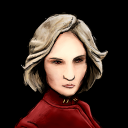
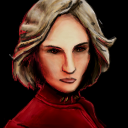
redid portraits, campaign balance

diff --git a/src/data/scripts/world/utils/ilk_BountySpawner.java b/src/data/scripts/world/utils/ilk_BountySpawner.java
@@ -20,6 +20,7 @@ public class ilk_BountySpawner implements EveryFrameScript {
     private long lastSpawn;
 
     boolean init = false;
+    CampaignEventPlugin bounty;
 
     public ilk_BountySpawner(SectorAPI sector, LocationAPI system, MarketAPI market, float dayInterval) {
         this.sector = sector;
@@ -50,16 +51,13 @@ public class ilk_BountySpawner implements EveryFrameScript {
     public void advance(float amount) {
         if (!init) {
             // spawn an initial event
-            CampaignEventPlugin bounty = sector.getEventManager().primeEvent(new CampaignEventTarget(market), Events.SYSTEM_BOUNTY, null);
+            bounty = sector.getEventManager().primeEvent(new CampaignEventTarget(market), Events.SYSTEM_BOUNTY, null);
             bounty.startEvent();
             init = true;
         }
 
         if (sector.getClock().getElapsedDaysSince(lastSpawn) >= interval) {
-            CampaignEventPlugin bounty = sector.getEventManager().primeEvent(new CampaignEventTarget(market), Events.SYSTEM_BOUNTY, null);
-            bounty.startEvent();
-
-            lastSpawn = sector.getClock().getTimestamp();
+            sector.getEventManager().endEvent(bounty);
         }
     }
 }

diff --git a/src/data/scripts/world/systems/ilk_RashtGen.java b/src/data/scripts/world/systems/ilk_RashtGen.java
@@ -145,7 +145,7 @@ public class ilk_RashtGen implements SectorGeneratorPlugin {
                 0.3f
         );
  
-        SystemUtils.addMarketplace(Factions.PIRATES,
+        SystemUtils.addMarketplace(Factions.LUDDIC_PATH,
                 ilk3,
                 null,
                 "Sindral",
@@ -173,9 +173,9 @@ public class ilk_RashtGen implements SectorGeneratorPlugin {
             SystemUtils.addConsul(ilk2.getMarket());
 
             // make some luddites
-            sector.addScript(new ilk_PathSpawnPoint(sector, system, 3, 7, ilk3));
+            //sector.addScript(new ilk_PathSpawnPoint(sector, system, 3, 7, ilk3));
             // start occasional bounties against mayorate enemies so players can more easily level up their mayorate rep
-            sector.addScript(new ilk_BountySpawner(sector, system, ilk1.getMarket(), 180f));
+            sector.addScript(new ilk_BountySpawner(sector, system, ilk1.getMarket(), 45f));
 
             // add forgiveness script to avoid rep decay on mayorate commission from being hostile with pirates
             sector.addScript(new ilk_CommissionEffects());

diff --git a/src/data/scripts/world/mayorateGen.java b/src/data/scripts/world/mayorateGen.java
@@ -7,6 +7,8 @@ import com.fs.starfarer.api.campaign.SectorGeneratorPlugin;
 import com.fs.starfarer.api.impl.campaign.ids.Factions;
 //import data.scripts.world.systems.ilk_KerajjGen;
 import data.scripts.world.systems.ilk_RashtGen;
+
+import java.util.ArrayList;
 import java.util.List;
 
 public class mayorateGen implements SectorGeneratorPlugin {
@@ -21,8 +23,11 @@ public class mayorateGen implements SectorGeneratorPlugin {
     
     public static void initFactionRelationships(SectorAPI sector) {
         FactionAPI mayorate = sector.getFaction("mayorate");
-        
-        for (FactionAPI faction : sector.getAllFactions()) {
+
+        // if in doubt, make factions hostile to mayorate
+        List<FactionAPI> factionList = sector.getAllFactions();
+        factionList.remove(mayorate);
+        for (FactionAPI faction : factionList) {
             mayorate.setRelationship(faction.getId(), RepLevel.HOSTILE);
         }
 

diff --git a/src/data/scripts/world/utils/ilk_PathSpawnPoint.java b/src/data/scripts/world/utils/ilk_PathSpawnPoint.java
@@ -9,7 +9,7 @@ import org.apache.log4j.Level;
 public class ilk_PathSpawnPoint extends BaseSpawnPoint {
 
     FactionAPI path;
-    private static final float PATH_SPAWN_CHANCE = 0.7f;
+    private static final float PATH_SPAWN_CHANCE = 0.5f;
 
     public ilk_PathSpawnPoint(SectorAPI sector, LocationAPI location,
                               float daysInterval, int maxFleets, SectorEntityToken anchor) {
